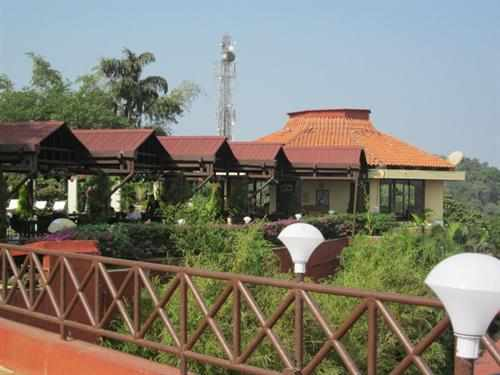
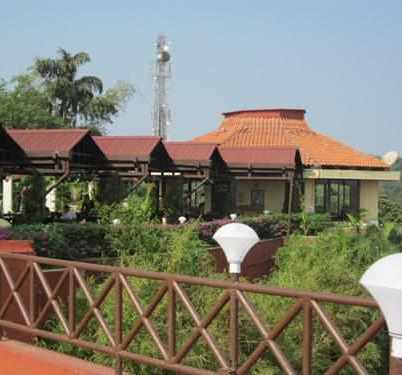
stay images (hyd + lonavala)

diff --git a/Lonavala-Khandala.html b/Lonavala-Khandala.html
@@ -418,7 +418,7 @@ License URL: http://creativecommons.org/licenses/by/3.0/
                         <li>
                         <div class="col-md-4">
 
-                            <img src="images/Lonavala_Images/Zara.jpg" class="icon-left-align">
+                            <img src="images/Lonavala_Images/Zara%20-%20Copy.jpg" class="icon-left-align">
                         </div>
                         
                         <div class="col-md-8">

diff --git a/Hyderabad.html b/Hyderabad.html
@@ -403,7 +403,7 @@ License URL: http://creativecommons.org/licenses/by/3.0/
                     
                     <li>
                         <div class="col-md-4">
-                            <img src="images/Hyd_Images/newimage.jpg" class="icon-left-align">
+                            <img src="images/Hyd_Images/newimage%20-%20Copy.jpg" class="icon-left-align">
 
                         </div>
                         
